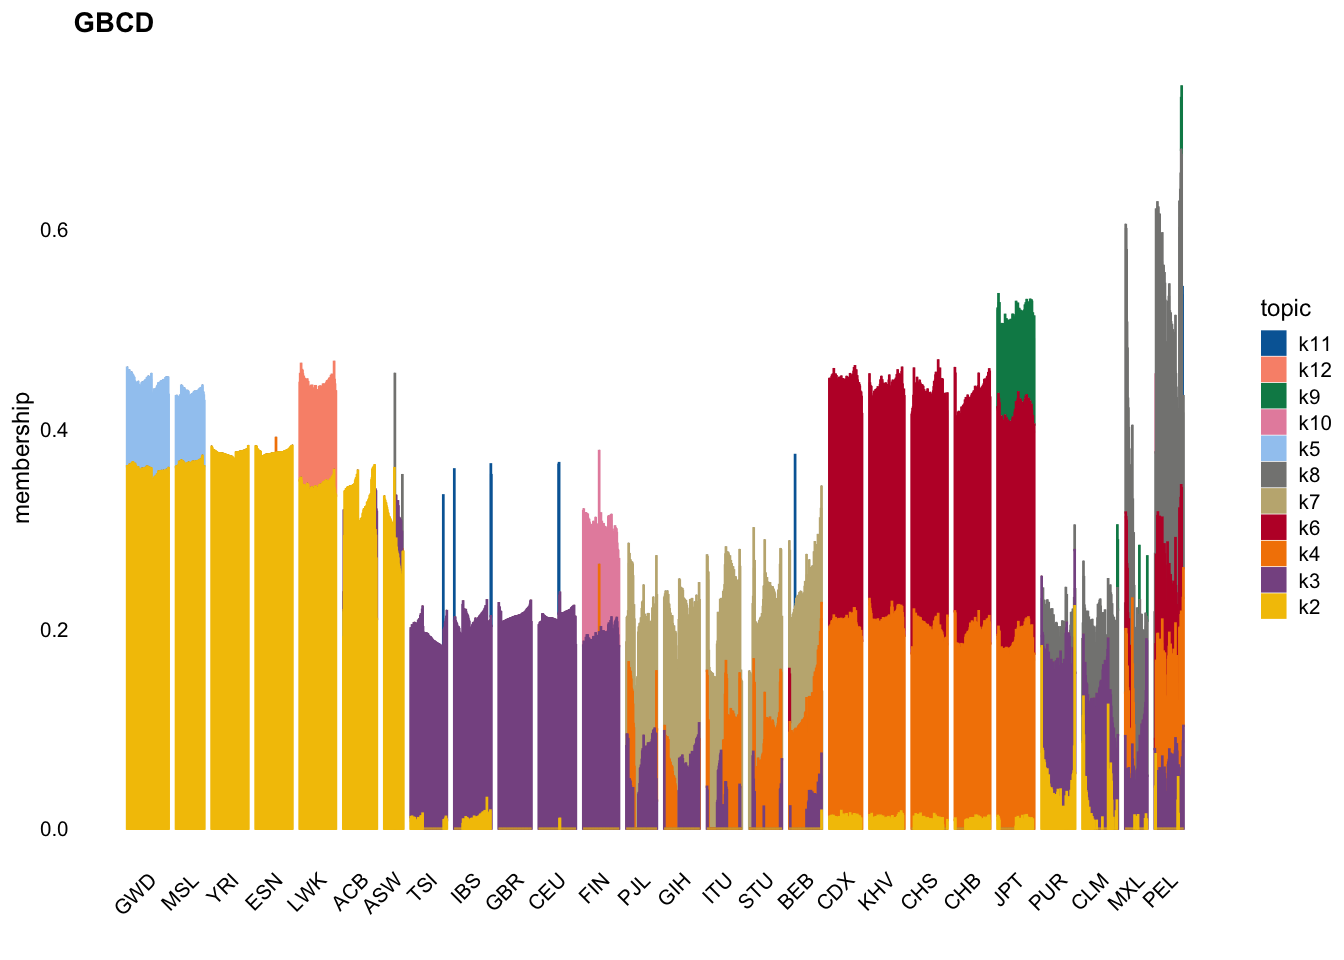
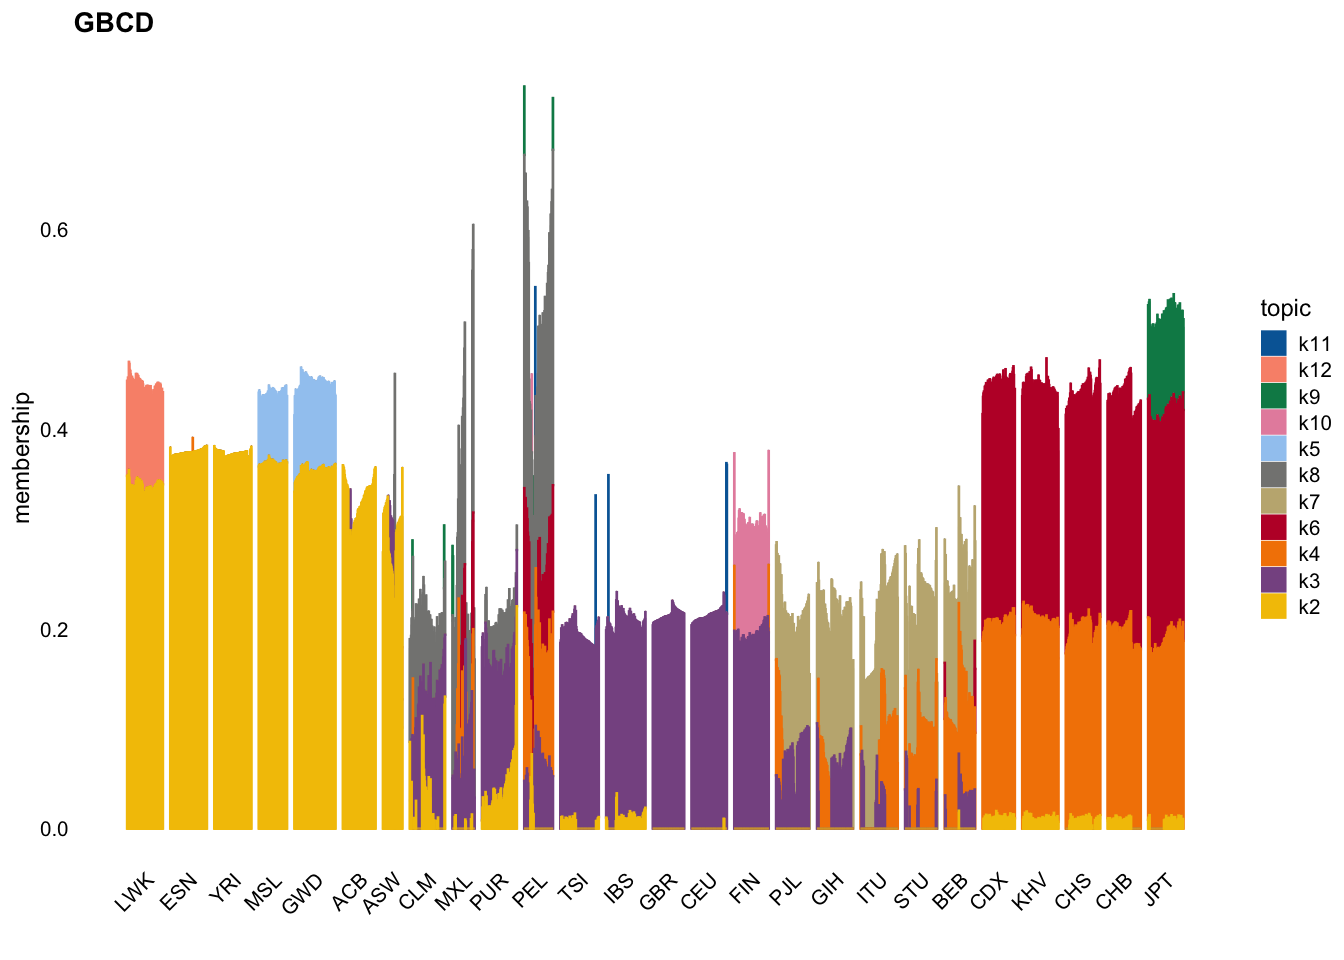
Build site.

Changed region(s): [[0.0938, 0.1875, 0.9062, 0.875], [0.0938, 0.9062, 0.875, 0.9688]]

diff --git a/docs/simplified_gbcd_analysis.html b/docs/simplified_gbcd_analysis.html
@@ -402,7 +402,7 @@ class="glyphicon glyphicon-ok text-success" aria-hidden="true"></span>
 <div class="tab-content">
 <div id="summary" class="tab-pane fade in active">
 <p>
-<strong>Last updated:</strong> 2025-10-06
+<strong>Last updated:</strong> 2025-10-08
 </p>
 <p>
 <strong>Checks:</strong> <span
@@ -533,15 +533,15 @@ project makes it easier to run your code on other machines.</p>
 <div class="panel panel-default">
 <div class="panel-heading">
 <p class="panel-title">
-<a data-toggle="collapse" data-parent="#workflowr-checks" href="#strongRepositoryversionstrongahrefhttpsgithubcomxxie6tgpanalysistreec9fef87b1299f2d4af523315853fc0d10cf36fa0targetblankc9fef87a">
+<a data-toggle="collapse" data-parent="#workflowr-checks" href="#strongRepositoryversionstrongahrefhttpsgithubcomxxie6tgpanalysistreeb256d9a9ca4ecf3f00e98a23d7629ccf1dd84970targetblankb256d9aa">
 <span class="glyphicon glyphicon-ok text-success"
 aria-hidden="true"></span> <strong>Repository version:</strong>
-<a href="https://github.com/xxie6/tgp_analysis/tree/c9fef87b1299f2d4af523315853fc0d10cf36fa0" target="_blank">c9fef87</a>
+<a href="https://github.com/xxie6/tgp_analysis/tree/b256d9a9ca4ecf3f00e98a23d7629ccf1dd84970" target="_blank">b256d9a</a>
 </a>
 </p>
 </div>
 <div
[2 lines of base64/hex data omitted]
 class="panel-collapse collapse">
 <div class="panel-body">
 <p>
@@ -551,7 +551,7 @@ reproducibility.
 </p>
 <p>
 The results in this page were generated with repository version
-<a href="https://github.com/xxie6/tgp_analysis/tree/c9fef87b1299f2d4af523315853fc0d10cf36fa0" target="_blank">c9fef87</a>.
+<a href="https://github.com/xxie6/tgp_analysis/tree/b256d9a9ca4ecf3f00e98a23d7629ccf1dd84970" target="_blank">b256d9a</a>.
 See the <em>Past versions</em> tab to see a history of the changes made
 to the R Markdown and HTML files.
 </p>
@@ -568,6 +568,10 @@ were generated:
 Ignored files:
     Ignored:    .DS_Store
     Ignored:    .Rhistory
+
+Untracked files:
+    Untracked:  analysis/gbcd_analysis.Rmd
+    Untracked:  data/gbcd_altscaling_tgp_analysis_k11.RData
 
 </code></pre>
 <p>
@@ -613,6 +617,40 @@ Message
 </tr>
 </thead>
 <tbody>
+<tr>
+<td>
+Rmd
+</td>
+<td>
+<a href="https://github.com/xxie6/tgp_analysis/blob/b256d9a9ca4ecf3f00e98a23d7629ccf1dd84970/analysis/simplified_gbcd_analysis.Rmd" target="_blank">b256d9a</a>
+</td>
+<td>
+Annie Xie
+</td>
+<td>
+2025-10-08
+</td>
+<td>
+Update simplified gbcd analysis
+</td>
+</tr>
+<tr>
+<td>
+html
+</td>
+<td>
+<a href="https://rawcdn.githack.com/xxie6/tgp_analysis/0a1cb3a897ef6180d36e06a8cd5b7db68c2b6143/docs/simplified_gbcd_analysis.html" target="_blank">0a1cb3a</a>
+</td>
+<td>
+Annie Xie
+</td>
+<td>
+2025-10-06
+</td>
+<td>
+Build site.
+</td>
+</tr>
 <tr>
 <td>
 Rmd
@@ -682,18 +720,16 @@ for each sample.</p>
 <p>The samples come from 26 populations, which are grouped into 5
 super-populations.</p>
 <pre class="r"><code>summary(tgp_meta$pop)</code></pre>
-<pre><code>GWD MSL YRI ESN LWK ACB ASW TSI IBS GBR CEU FIN PJL GIH ITU STU BEB CDX KHV CHS 
-113  85 108  99  99  96  61 107 107  91  99  99  96 103 102 102  86  93  99 105 
-CHB JPT PUR CLM MXL PEL 
-103 104 104  94  64  85 </code></pre>
+<pre><code>LWK ESN YRI MSL GWD ACB ASW CLM MXL PUR PEL TSI IBS GBR CEU FIN PJL GIH ITU STU 
+ 99  99 108  85 113  96  61  94  64 104  85 107 107  91  99  99  96 103 102 102 
+BEB CDX KHV CHS CHB JPT 
+ 86  93  99 105 103 104 </code></pre>
 <pre class="r"><code>summary(tgp_meta$super_pop)</code></pre>
 <pre><code>   Length     Class      Mode 
      2504 character character </code></pre>
 </div>
 <div id="using-flashier-to-fit-gbcd" class="section level1">
 <h1>Using Flashier to fit GBCD</h1>
-<p>We also want to note that this <code>fit_gbcd</code> call takes about
-1 hour to complete.</p>
 <p>Now, we use the R package <code>flashier</code> to apply a simplified
 version of GBCD on the 1000 Genomes Project data. This is broken down
 into several steps.</p>
@@ -822,13 +858,17 @@ p1 &lt;- structure_plot(L,grouping = tgp_meta$pop,
                      colors = factor_colors,
                      gap = 16,verbose = FALSE) +
   labs(y = &quot;membership&quot;,title = &quot;GBCD&quot;)</code></pre>
-<pre><code>Running tsne on 86 x 12 matrix.</code></pre>
-<pre><code>Running tsne on 70 x 12 matrix.</code></pre>
-<pre><code>Running tsne on 94 x 12 matrix.</code></pre>
-<pre><code>Running tsne on 80 x 12 matrix.</code></pre>
 <pre><code>Running tsne on 77 x 12 matrix.</code></pre>
+<pre><code>Running tsne on 80 x 12 matrix.</code></pre>
+<pre><code>Running tsne on 94 x 12 matrix.</code></pre>
+<pre><code>Running tsne on 70 x 12 matrix.</code></pre>
+<pre><code>Running tsne on 86 x 12 matrix.</code></pre>
 <pre><code>Running tsne on 67 x 12 matrix.</code></pre>
 <pre><code>Running tsne on 47 x 12 matrix.</code></pre>
+<pre><code>Running tsne on 77 x 12 matrix.</code></pre>
+<pre><code>Running tsne on 52 x 12 matrix.</code></pre>
+<pre><code>Running tsne on 89 x 12 matrix.</code></pre>
+<pre><code>Running tsne on 67 x 12 matrix.</code></pre>
 <pre><code>Running tsne on 86 x 12 matrix.</code></pre>
 <pre><code>Running tsne on 90 x 12 matrix.</code></pre>
 <pre><code>Running tsne on 73 x 12 matrix.</code></pre>
@@ -844,10 +884,6 @@ p1 &lt;- structure_plot(L,grouping = tgp_meta$pop,
 <pre><code>Running tsne on 81 x 12 matrix.</code></pre>
 <pre><code>Running tsne on 88 x 12 matrix.</code></pre>
 <pre><code>Running tsne on 83 x 12 matrix.</code></pre>
-<pre><code>Running tsne on 89 x 12 matrix.</code></pre>
-<pre><code>Running tsne on 77 x 12 matrix.</code></pre>
-<pre><code>Running tsne on 52 x 12 matrix.</code></pre>
-<pre><code>Running tsne on 67 x 12 matrix.</code></pre>
 <pre><code>Warning: `aes_string()` was deprecated in ggplot2 3.0.0.
 ℹ Please use tidy evaluation idioms with `aes()`.
 ℹ See also `vignette(&quot;ggplot2-in-packages&quot;)` for more information.
@@ -859,6 +895,43 @@ Call `lifecycle::last_lifecycle_warnings()` to see where this warning was
 generated.</code></pre>
 <pre class="r"><code>p1</code></pre>
 <p><img src="figure/simplified_gbcd_analysis.Rmd/structure_plot_L-1.png" width="672" style="display: block; margin: auto;" /></p>
+<p>
+<button type="button" class="btn btn-default btn-xs btn-workflowr btn-workflowr-fig" data-toggle="collapse" data-target="#fig-structure_plot_L-1">
+Past versions of structure_plot_L-1.png
+</button>
+</p>
+<div id="fig-structure_plot_L-1" class="collapse">
+<div class="table-responsive">
+<table class="table table-condensed table-hover">
+<thead>
+<tr>
+<th>
+Version
+</th>
+<th>
+Author
+</th>
+<th>
+Date
+</th>
+</tr>
+</thead>
+<tbody>
+<tr>
+<td>
+<a href="https://github.com/xxie6/tgp_analysis/blob/0a1cb3a897ef6180d36e06a8cd5b7db68c2b6143/docs/figure/simplified_gbcd_analysis.Rmd/structure_plot_L-1.png" target="_blank">0a1cb3a</a>
+</td>
+<td>
+Annie Xie
+</td>
+<td>
+2025-10-06
+</td>
+</tr>
+</tbody>
+</table>
+</div>
+</div>
 <p>Factor 1 (“k1” in the legend) appears to be a “baseline” factor. To
 focus on differences between samples, we can remove first factor from
 our structure plot:</p>
@@ -866,34 +939,71 @@ our structure plot:</p>
                      colors = factor_colors[-1],
                      gap = 16,verbose = FALSE) +
   labs(y = &quot;membership&quot;,title = &quot;GBCD&quot;)</code></pre>
-<pre><code>Running tsne on 95 x 11 matrix.</code></pre>
-<pre><code>Running tsne on 65 x 11 matrix.</code></pre>
-<pre><code>Running tsne on 84 x 11 matrix.
-Running tsne on 84 x 11 matrix.</code></pre>
-<pre><code>Running tsne on 83 x 11 matrix.</code></pre>
-<pre><code>Running tsne on 77 x 11 matrix.</code></pre>
-<pre><code>Running tsne on 44 x 11 matrix.</code></pre>
-<pre><code>Running tsne on 83 x 11 matrix.</code></pre>
-<pre><code>Running tsne on 85 x 11 matrix.</code></pre>
-<pre><code>Running tsne on 75 x 11 matrix.</code></pre>
-<pre><code>Running tsne on 85 x 11 matrix.</code></pre>
 <pre><code>Running tsne on 82 x 11 matrix.</code></pre>
-<pre><code>Running tsne on 70 x 11 matrix.</code></pre>
-<pre><code>Running tsne on 81 x 11 matrix.</code></pre>
-<pre><code>Running tsne on 80 x 11 matrix.</code></pre>
-<pre><code>Running tsne on 75 x 11 matrix.
-Running tsne on 75 x 11 matrix.
-Running tsne on 75 x 11 matrix.</code></pre>
-<pre><code>Running tsne on 80 x 11 matrix.</code></pre>
-<pre><code>Running tsne on 82 x 11 matrix.</code></pre>
-<pre><code>Running tsne on 81 x 11 matrix.</code></pre>
 <pre><code>Running tsne on 84 x 11 matrix.</code></pre>
-<pre><code>Running tsne on 77 x 11 matrix.</code></pre>
+<pre><code>Running tsne on 85 x 11 matrix.</code></pre>
+<pre><code>Running tsne on 65 x 11 matrix.</code></pre>
+<pre><code>Running tsne on 94 x 11 matrix.</code></pre>
+<pre><code>Running tsne on 75 x 11 matrix.</code></pre>
+<pre><code>Running tsne on 45 x 11 matrix.</code></pre>
 <pre><code>Running tsne on 81 x 11 matrix.</code></pre>
 <pre><code>Running tsne on 51 x 11 matrix.</code></pre>
+<pre><code>Running tsne on 80 x 11 matrix.</code></pre>
 <pre><code>Running tsne on 66 x 11 matrix.</code></pre>
+<pre><code>Running tsne on 88 x 11 matrix.</code></pre>
+<pre><code>Running tsne on 90 x 11 matrix.</code></pre>
+<pre><code>Running tsne on 72 x 11 matrix.</code></pre>
+<pre><code>Running tsne on 81 x 11 matrix.</code></pre>
+<pre><code>Running tsne on 79 x 11 matrix.</code></pre>
+<pre><code>Running tsne on 77 x 11 matrix.</code></pre>
+<pre><code>Running tsne on 83 x 11 matrix.</code></pre>
+<pre><code>Running tsne on 85 x 11 matrix.</code></pre>
+<pre><code>Running tsne on 74 x 11 matrix.</code></pre>
+<pre><code>Running tsne on 70 x 11 matrix.</code></pre>
+<pre><code>Running tsne on 74 x 11 matrix.</code></pre>
+<pre><code>Running tsne on 83 x 11 matrix.</code></pre>
+<pre><code>Running tsne on 79 x 11 matrix.</code></pre>
+<pre><code>Running tsne on 76 x 11 matrix.</code></pre>
+<pre><code>Running tsne on 81 x 11 matrix.</code></pre>
 <pre class="r"><code>p2</code></pre>
 <p><img src="figure/simplified_gbcd_analysis.Rmd/structure_plot_wout_k1-1.png" width="672" style="display: block; margin: auto;" /></p>
+<p>
+<button type="button" class="btn btn-default btn-xs btn-workflowr btn-workflowr-fig" data-toggle="collapse" data-target="#fig-structure_plot_wout_k1-1">
+Past versions of structure_plot_wout_k1-1.png
+</button>
+</p>
+<div id="fig-structure_plot_wout_k1-1" class="collapse">
+<div class="table-responsive">
+<table class="table table-condensed table-hover">
+<thead>
+<tr>
+<th>
+Version
+</th>
+<th>
+Author
+</th>
+<th>
+Date
+</th>
+</tr>
+</thead>
+<tbody>
+<tr>
+<td>
+<a href="https://github.com/xxie6/tgp_analysis/blob/0a1cb3a897ef6180d36e06a8cd5b7db68c2b6143/docs/figure/simplified_gbcd_analysis.Rmd/structure_plot_wout_k1-1.png" target="_blank">0a1cb3a</a>
+</td>
+<td>
+Annie Xie
+</td>
+<td>
+2025-10-06
+</td>
+</tr>
+</tbody>
+</table>
+</div>
+</div>
 <p>From this plot, we can interpret the components of our decomposition.
 For example, factors 2, 6, and 7 (“k2”, “k6”, and “k7” in the plot)
 primarily capture the Africa super-population, East Asia
